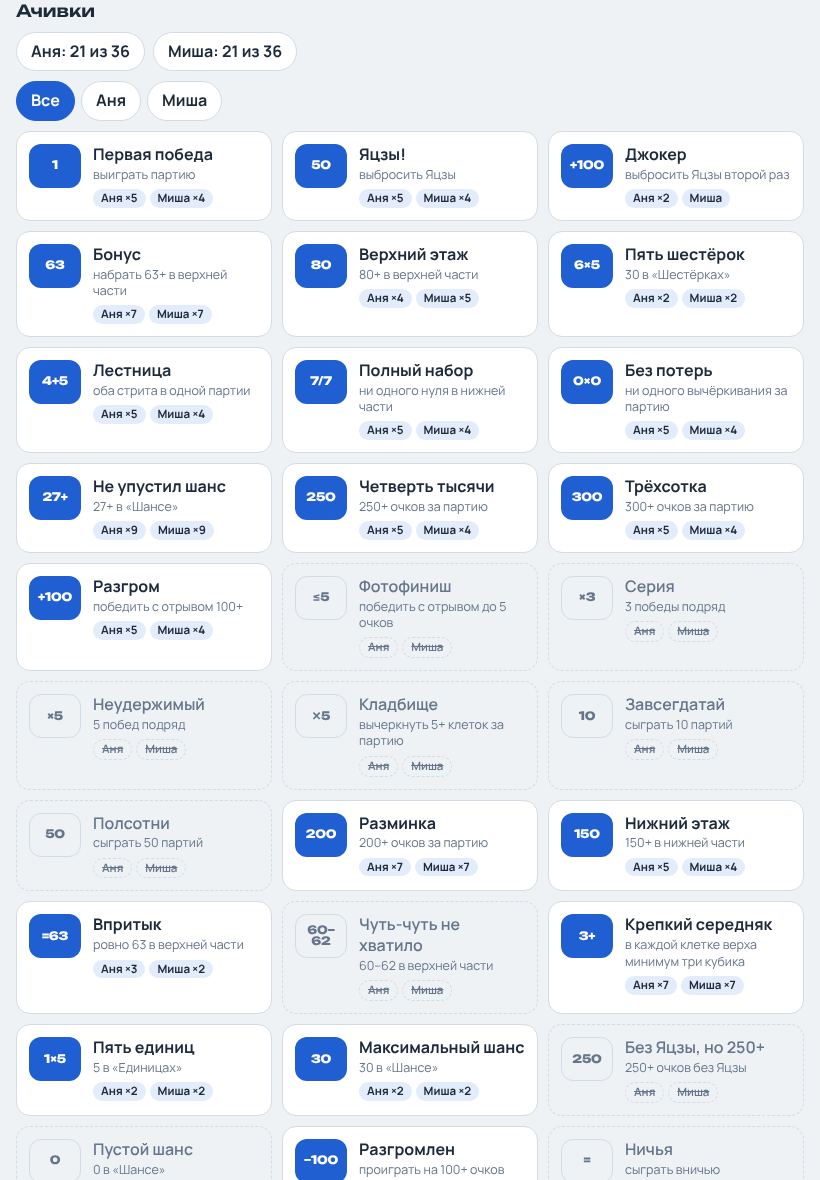
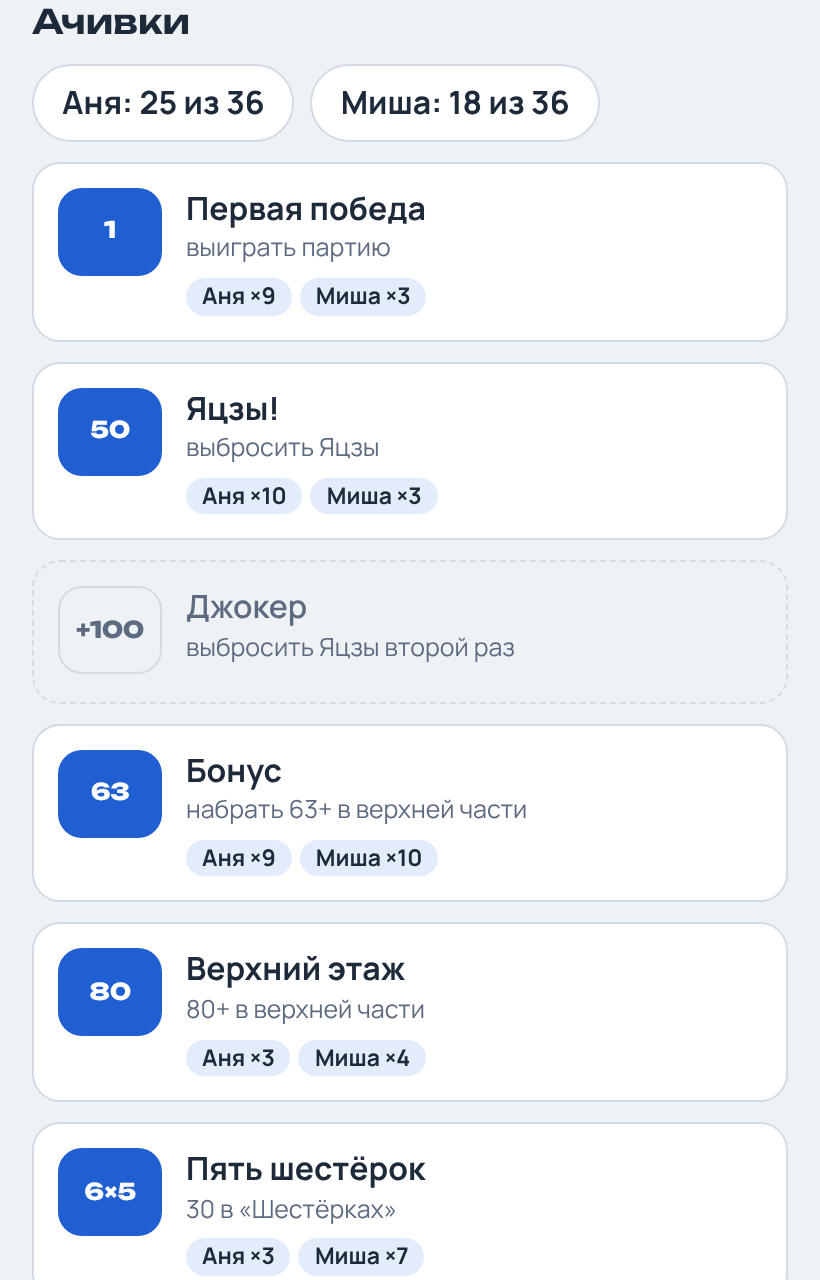
README: describe the app as it is now, retake the screenshots at phone size
Claude-Session: https://claude.ai/code/session_01SMErAJHtUbh8T13qoWXYWg

diff --git a/README.md b/README.md
@@ -5,9 +5,9 @@
 <h1 align="center">Яцзы</h1>
 
 <p align="center">
-  Блокнот для подсчёта очков в Яцзы на iPad.<br>
-  Работает в браузере, ставится на экран «Домой» и не требует интернета.<br>
-  Можно играть с настоящими кубиками, с кубиками на экране или онлайн с другом.
+  Блокнот для подсчёта очков в Яцзы на телефоне и iPad.<br>
+  Работает в браузере и в Telegram, ставится на экран «Домой» и не требует интернета.<br>
+  Можно играть с настоящими кубиками, с кубиками на экране или онлайн с друзьями.
 </p>
 
 <p align="center">
@@ -15,37 +15,38 @@
 </p>
 
 <p align="center">
-  <img src="docs/game.png" width="380" alt="Таблица очков на двоих">
+  <img src="docs/game.png" width="300" alt="Таблица очков на двоих, итог закреплён внизу экрана">
   &nbsp;
-  <img src="docs/game-dark.png" width="380" alt="То же в тёмной теме">
+  <img src="docs/game-dark.png" width="300" alt="То же в тёмной теме">
 </p>
 
 ## Что умеет
 
-- **Удобный ввод.** Нажимаете на клетку, и появляются только те значения, которые в ней возможны. 0 значит вычеркнуть.
-- **Кубики на экране**, если настоящих нет под рукой: до трёх бросков за ход, нажатием кубик откладывается, а в таблице сразу видно, сколько даст каждая клетка. Кубики честные: каждая грань выпадает с вероятностью ровно 1/6 (криптографический генератор браузера).
-- **Игра онлайн.** Каждый играет на своём устройстве: создаёте комнату, отправляете другу код или ссылку, и у вас общая таблица. Бросает тот, чей ход, остальные видят каждый бросок и отложенные кубики. Можно сидеть вдвоём за одним iPad и играть против друга на другом. Партия попадает в историю и статистику у всех.
-- **Всё считается само:** суммы, бонус за верхнюю часть, итог, чей сейчас ход.
+- **Удобный ввод.** Нажимаете на клетку, и появляются только те значения, которые в ней возможны. 0 значит вычеркнуть, такая клетка помечается ✕. Нажатие на название клетки показывает её правило.
+- **Кубики на экране**, если настоящих нет под рукой: до трёх бросков за ход, нажатием кубик откладывается, а в таблице сразу видно, сколько даст каждая клетка, и лучший вариант обведён. С кубиками на экране чужие пустые клетки закрыты до их хода. Кубики честные: каждая грань выпадает с вероятностью ровно 1/6 (криптографический генератор браузера).
+- **Игра онлайн.** Каждый играет на своём устройстве: создаёте комнату, отправляете другу код или ссылку, и у вас общая таблица. Бросает тот, чей ход, остальные видят каждый бросок и отложенные кубики и могут ответить реакцией. Можно сидеть вдвоём за одним устройством и играть против друга на другом. Партия попадает в историю и статистику у всех.
+- **Своя колонка всегда видна:** её отмечает светлая полоса, а в онлайн-комнате она ещё и стоит первой. Строка «Итого» держится внизу экрана, пока настоящая не доедет до своего места.
+- **Всё считается само:** суммы, бонус за верхнюю часть (с подсказкой, хватает ли запаса до 63), итог, чей сейчас ход.
 - **Ошибки не страшны:** кнопка «Отменить» откатывает последний ход, даже после конца партии.
 - **Экран не гаснет**, пока идёт партия.
-- **Партию можно закончить досрочно**, а любую прошлую открыть целиком или удалить.
+- **Партию можно закончить досрочно**, а любую прошлую открыть целиком или удалить. Досрочные партии остаются в истории, но в статистику и ачивки не идут.
 - **От 2 до 4 игроков** из сохранённого списка. Игроков можно переименовывать, а порядок хода менять прямо в партии.
-- **Статистика:** победы и процент побед, средний и лучший счёт, как часто берётся бонус, серии побед, рекорды и средние очки по каждой клетке.
-- **36 ачивок** с разбивкой по игрокам: у кого есть, у кого нет и сколько раз. Новые всплывают прямо во время партии.
-- **Работает без интернета** (кроме онлайн-игры) и само обновляется, когда интернет появляется.
-- **Резервная копия** истории и игроков в файл (в «Файлы» или iCloud Drive) и восстановление из него. Каждые 5 партий блокнот напоминает о копии.
-- Светлая и тёмная тема подстраиваются под настройки устройства.
+- **Статистика:** победы и процент побед, средний и лучший счёт, как часто берётся бонус, серии побед, рекорды и средние очки по каждой клетке. Сверху можно выбрать одного игрока.
+- **36 ачивок** с разбивкой по игрокам: у кого есть, у кого нет и сколько раз. Новая ачивка всплывает прямо во время партии, а повторные просто считаются и видны под итогом партии.
+- **Работает без интернета** (кроме онлайн-игры) и само обновляется, когда интернет появляется. Номер версии написан внизу страницы.
+- **Резервная копия** истории и игроков в файл (в «Файлы» или iCloud Drive) и восстановление из него. Каждые 5 партий блокнот напоминает о копии, кроме Telegram, где история и так хранится в облаке.
+- Окна снизу закрываются крестиком или свайпом вниз. Светлая и тёмная тема подстраиваются под настройки устройства.
 
 <p align="center">
-  <img src="docs/dice.png" width="380" alt="Кубики на экране: три пятёрки отложены, в таблице подсказки">
+  <img src="docs/dice.png" width="300" alt="Кубики на экране: три пятёрки отложены после второго броска">
   &nbsp;
-  <img src="docs/online.png" width="380" alt="Онлайн-партия: бросок друга виден вживую">
+  <img src="docs/online.png" width="300" alt="Онлайн-партия: бросок соперника виден вживую, своя колонка первая">
 </p>
 
 <p align="center">
-  <img src="docs/stats.png" width="380" alt="Статистика игроков">
+  <img src="docs/stats.png" width="300" alt="Статистика игроков с выбором игрока">
   &nbsp;
-  <img src="docs/achievements.png" width="380" alt="Ачивки и сравнение игроков">
+  <img src="docs/achievements.png" width="300" alt="Ачивки и сравнение игроков">
 </p>
 
 ## Правила
@@ -72,10 +73,12 @@
 3. Друг открывает ссылку или нажимает «Играть онлайн» и вводит код.
 4. Когда все в комнате, «Начать партию». После конца партии «Ещё партию» начинает новую, первым ходит следующий игрок.
 
-Текущая партия на устройстве при этом никуда не пропадает и возвращается после выхода из комнаты.
+Текущая партия на устройстве при этом никуда не пропадает и возвращается после выхода из комнаты. Если выйти из комнаты посреди партии, она ждёт в списке «Мои комнаты» и возвращается одним нажатием.
+
+Закончить онлайн-партию досрочно можно только вместе: кнопка «Закончить досрочно» в окне комнаты спрашивает остальных, и партия заканчивается, когда согласятся все. Если два устройства сходят одновременно, ход опоздавшего не затирает чужой: блокнот скажет «Ход не отправился» и покажет свежую таблицу.
 
 <p align="center">
-  <img src="docs/room.png" width="380" alt="Комната с кодом и списком игроков">
+  <img src="docs/room.png" width="300" alt="Комната с кодом и списком игроков">
 </p>
 
 ## Telegram
@@ -88,20 +91,22 @@
 - «Поделиться» результатом партии в любой чат;
 - иконка на экран телефона прямо из Telegram (вкладка «Статистика»).
 
+У бота есть и свои функции. Он пишет «твой ход» тем, кто вышел из приложения, и напоминает раз в сутки, если ход затянулся. Кнопка «Поторопить» отправляет сопернику сообщение. Позвать друга в комнату можно из любого чата через `@k22_yatzy_bot`, а после партий на вкладке «Статистика» складывается рейтинг друзей.
+
 Онлайн-комнаты общие, так что можно играть одному из Telegram, другому из браузера.
 
-## Как поставить на iPad
+## Как поставить на iPhone или iPad
 
 1. Откройте https://kitoglav22.github.io/yatzy/ в Safari.
 2. Нажмите «Поделиться» → «На экран Домой».
-3. Запускайте с иконки. Если нужно подтянуть обновление, закройте блокнот в переключателе приложений и откройте снова.
+3. Запускайте с иконки. Если нужно подтянуть обновление, закройте блокнот в переключателе приложений и откройте снова. Номер версии внизу страницы показывает, какая открыта.
 
-> Партии хранятся на самом устройстве. Наружу уходит только онлайн-партия: пока она идёт, имена и очки лежат в комнате на сервере Firebase, а когда все выходят, комната удаляется. Время от времени жмите «Сохранить копию» на вкладке «Статистика».
-> Не удаляйте иконку с экрана «Домой»: вместе с ней iPadOS удаляет и сохранённые данные.
+> Партии хранятся на самом устройстве, а в Telegram ещё и в облаке Telegram. Наружу уходит только онлайн-партия: пока она идёт, имена и очки лежат в комнате на сервере Firebase. Комната удаляется, когда из неё выходит последний игрок, а заброшенную бот убирает через 60 дней. Время от времени жмите «Сохранить копию» на вкладке «Статистика».
+> Не удаляйте иконку с экрана «Домой»: вместе с ней система удаляет и сохранённые данные.
 
 ## Устройство
 
-Одна HTML-страница без сборщиков. Внешние библиотеки, Firebase и скрипт Telegram, загружаются только там, где нужны: для онлайн-игры и внутри Telegram. Исходный код лежит здесь, в ветке `main`. После каждого изменения GitHub прогоняет тесты, и только если они прошли, собирает страницу и публикует её в ветку [`gh-pages`](https://github.com/kitoglav22/yatzy/tree/gh-pages), откуда её раздаёт GitHub Pages (`.github/workflows/site.yml`).
+Одна HTML-страница без сборщиков и без своего сервера. Внешние библиотеки, Firebase и скрипт Telegram, загружаются только там, где нужны: для онлайн-игры и внутри Telegram. Бот живёт отдельно, в воркере Cloudflare (`server/`), и с приложением общается только через базу Firebase. Исходный код лежит здесь, в ветке `main`. После каждого изменения GitHub прогоняет тесты, и только если они прошли, собирает страницу и публикует её в ветку [`gh-pages`](https://github.com/kitoglav22/yatzy/tree/gh-pages), откуда её раздаёт GitHub Pages (`.github/workflows/site.yml`).
 
 | Файл | Что это |
 |---|---|
@@ -113,11 +118,13 @@
 | `src/achievements.js` | ачивки, всплывающие уведомления, статистика |
 | `src/offline.js`, `src/backup.html` | резервная копия и работа без интернета |
 | `src/online.js` | онлайн-комнаты через Firebase Realtime Database |
-| `src/telegram.js` | режим мини-приложения Telegram: тема, кнопка «Назад», вибрация, приглашения через бота |
-| `database.rules.json` | правила доступа к базе: только комнаты по коду, с проверкой размера |
-| `build.py` | собирает всё в один `index.html` |
+| `src/telegram.js` | режим мини-приложения Telegram: облако, тема, кнопка «Назад», вибрация, приглашения и кнопки бота |
+| `src/cloud.js` | хранение для копии блокнота на claude.ai |
+| `server/worker.js` | бот Telegram в воркере Cloudflare, подробности в [`server/README.md`](server/README.md) |
+| `database.rules.json` | правила доступа к базе: комнаты по коду с проверкой размера, очередь запросов для бота |
+| `build.py` | собирает всё в один `index.html` и вписывает номер версии из `sw.js` |
 | `sw.js` | кэш для работы без интернета |
-| `tests/` | тесты в браузере: правила, партия, кубики, копия, онлайн |
+| `tests/` | тесты в браузере: правила, партия, кубики, копия, онлайн, Telegram и бот |
 
 Чтобы поменять правила или ачивки, правьте `src/core.js` (массивы `UP`, `LOW`, `JK`) или `src/achievements.js` (`ACH`), затем увеличьте номер кэша в `sw.js`. Собирать страницу вручную не нужно: это делает GitHub после тестов. Локально её собирает `python3 build.py`.
 
@@ -129,4 +136,4 @@ npx playwright install chromium
 npm test
 ```
 
-`npm test` собирает страницу и проверяет её в браузере без экрана: подсчёт очков по домашним правилам, конец партии и отмену, досрочное завершение, ачивки, резервную копию, кубики с джокером и онлайн-игру на нескольких устройствах. Онлайн и Telegram проверяются на подменах, настоящие Firebase и Telegram в тестах не нужны.
+`npm test` собирает страницу и проверяет её в браузере без экрана: подсчёт очков по домашним правилам, конец партии и отмену, досрочное завершение, ачивки, резервную копию, кубики с джокером, онлайн-игру на нескольких устройствах с голосованием и одновременными ходами, режим Telegram и бота. Онлайн, Telegram и бот проверяются на подменах, настоящие Firebase и Telegram в тестах не нужны.
